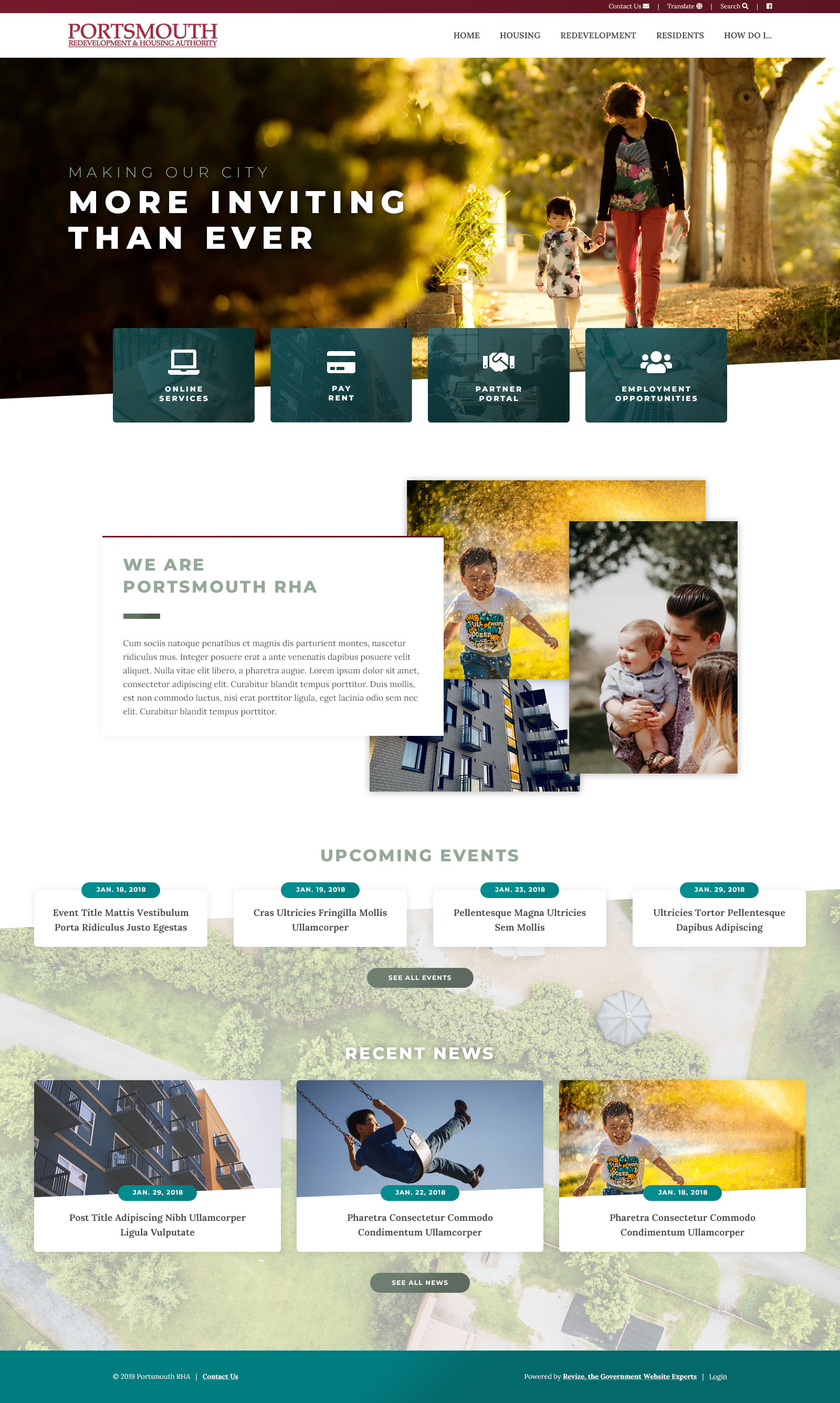
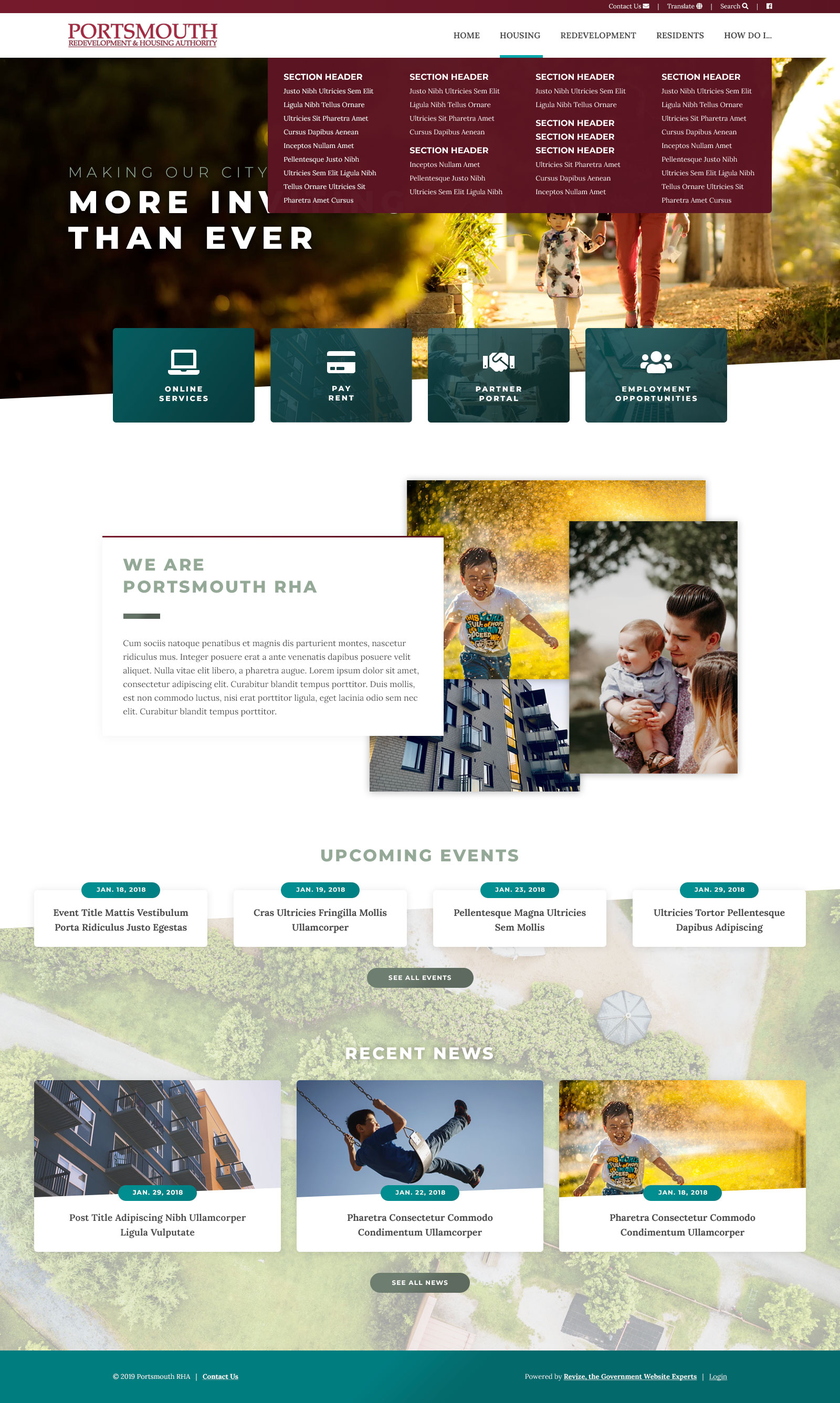
finished mega menu

Changed region(s): [[0.3125, 0.0311, 0.9375, 0.1553], [0.125, 0.2174, 0.2812, 0.3105], [0.7188, 0.9626, 0.75, 0.9936]]

diff --git a/_assets_/css/layout.css b/_assets_/css/layout.css
@@ -212,9 +212,9 @@ header .container {position: relative;}
 
 nav ul {margin: 0; padding: 0; font-size: 0;}
 #nav>li {display: inline-block;}
-#nav li {position: relative; margin: 0;}
+#nav li {margin: 0;}
 #nav li a {display: block; font-size: 16px; line-height: 24px; font-weight: 700; text-transform: uppercase; text-decoration: none; color: #4b4b4b; padding: 30px 0 31px;}
-#nav ul {display: none;}
+/* #nav ul {display: none;} */
 
 #search {display: none; position: absolute; top: calc(100% + 15px); right: 0; z-index: 51; width: 400px;}
 #search label {display: none;}
@@ -390,9 +390,18 @@ footer .container {width: 1200px;}
 	#flyout .focused .toggle,#nav .focused .toggle2{-webkit-transform:rotate(-90deg);transform:rotate(-90deg)}
 	#flyout,#nav{display:block!important}
 
+
 	/*--------------- #nav ---------------*/
 	header {text-align: right;}
 	#nav li a { margin-left: 38px;}
+	#nav li:hover ul {display: inline-block;}
+	#nav>li>a{position: relative;}
+	#nav>li:hover>a.mega:after{content:'';position:absolute;bottom:0px;left:0;background-color:#45a5aa;height:5px;width:100%}
+	#nav>li>ul {position: absolute; top: 100%; right: 15px; z-index: 51; display: none; column-count: 4; column-gap: 64px; background-color: #571d24; text-align: left; padding: 24px 30px 11px; border-radius: 0 0 6px 6px;}
+	#nav>li>ul>li {display: block;}
+	#nav>li>ul>li>a {font-family: 'Montserrat'; font-weight: 700; font-size: 16px; line-height: 26px; width: 100%; margin-bottom: 1px;}
+	#nav ul li a {color: #fff; padding: 0; margin: 0;}
+	#nav ul ul li a {font-size: 13px; line-height: 26px; font-weight: 300; text-transform: capitalize;}
 
 }
 
@@ -400,6 +409,7 @@ footer .container {width: 1200px;}
 
 	/*--------------- #we-are ---------------*/
 	#we-are .img-container div:nth-child(3) {width: 67.4%; padding-bottom: 47.4%; top: 190px; right: 240px;}
+
 
 	/*--------------- #news ---------------*/
 	.news-link h3 {padding: 0 25px;}
@@ -427,7 +437,7 @@ footer .container {width: 1200px;}
 	#nav-toggle{display:inline-block;cursor:pointer}
 	.down-arrow{display:none} /* if not hidden above */
 	#nav{display:none;width: 100%;;margin: 15px 0; background-color: #6a212c;}
-	#nav li{float:none;display:block;width: 100%;}
+	#nav li{float:none;display:block;width: 100%;position:relative;}
 	#nav li a,
 	#nav li span{padding:15px;line-height:1;border-bottom:1px solid rgba(0,0,0,.2);background:none;font-size:14px; color:#fff;}
 	#nav ul{position:static;top:0;padding:0;background:rgba(0,0,0,.2)}
@@ -463,6 +473,7 @@ footer .container {width: 1200px;}
 	#we-are .img-container div:nth-child(2) {width: 37.2%; padding-bottom: 55.2%; top: 50%; right: 50%; transform: translate(120%, -40%); z-index: 3}
 	#we-are .img-container div:nth-child(3) {width: 56.2%; padding-bottom: 35.2%; top: 50%; right: 50%; transform: translate(28%, 8%); z-index:1}
 
+
 	/*--------------- footer ---------------*/
 	footer {padding: 20px 0;}
 
@@ -478,23 +489,28 @@ footer .container {width: 1200px;}
 	.share-btns a{height:auto;padding:10px;width:100%;font-size:12px;white-space:nowrap;overflow:hidden}
 	.share-btns i{display:block;line-height:50px!important;font-size:20px}
 
+
 	/*--------------- #slider ---------------*/
 	#slider {height: 500px;}
 	#slider h1 {font-size: 40px; line-height: 48px;}
 	#slider h1 span {font-size: 22px; line-height: 22px;}
 
+
 	/*--------------- #we-are ---------------*/
 	#we-are .img-container {height: 450px;}
 	#we-are-info h2 {font-size: 28px; line-height: 36px;}
+
 
 	/*--------------- #events ---------------*/
 	#events h2 {font-size: 28px; line-height: 36px;}
 	#events a.btn {font-size: 11px; width: 180px; height: 34px; line-height: 34px;}
 
+
 	/*--------------- #news ---------------*/
 	#news {padding: 230px 0 50px;}
 	#news h2 {font-size: 28px; line-height: 36px;}
 	#news a.btn {font-size: 11px; width: 180px; height: 34px; line-height: 34px;}
+
 
 	/*--------------- footer ---------------*/
 	#contact-info,
@@ -513,6 +529,7 @@ footer .container {width: 1200px;}
 	#search-toggle-mobile,
 	#nav-toggle {margin-top: 7px;}
 
+
 	/*--------------- #slider ---------------*/
 	#slider h1 {font-size: 30px; line-height: 36px;}
 	#slider h1 span {font-size: 20px; line-height: 20px;}
@@ -520,6 +537,7 @@ footer .container {width: 1200px;}
 	/*--------------- #we-are ---------------*/
 	#we-are .img-container {height: 300px;}
 	#we-are-info h2 {font-size: 24px; line-height: 28px;}
+
 
 	/*--------------- #news ---------------*/
 	.news-link-img {height: 180px;}
@@ -531,14 +549,17 @@ footer .container {width: 1200px;}
 	.news-link span {font-size: 11px;}
 	.news-link h3 {font-size: 16px; line-height: 24px;}
 
+
 	/*--------------- #events ---------------*/
 	#events {padding: 40px 0 0}
 	#events h2 {font-size: 24px; line-height: 28px;}
 	#events a.btn {font-size: 11px; width: 180px; height: 34px; line-height: 34px;}
 
+
 	/*--------------- footer ---------------*/
 	#revize>a {display: block; margin: 0;}
 	#revize>a:after {display: none;}
+
 }
 
 @media print {

diff --git a/_assets_/js/scripts.js b/_assets_/js/scripts.js
@@ -93,6 +93,7 @@
 	// $("#nav > li:has(ul)").addClass('first-parent').children("a,span").append('<i class="fa fa-angle-down down-arrow">');
 
 	// Menu Toggles
+	$("#nav >li").has("ul").find('a').addClass('mega');
 	$("#nav >li>ul,#flyout >li>ul").addClass('first-level');
 	$("#nav  li ul ul").addClass('second-level');
 	$("#nav >li:has(ul)").find("a:first").append('<i class="fa fa-angle-down toggle" tabindex="0">');

diff --git a/index.php b/index.php
@@ -129,6 +129,7 @@
 								</ul>
 							</li>
 							<li><a href="./">section header</a></li>
+							<li><a href="./">section header</a></li>
 							<li>
 								<a href="./">section header</a>
 								<ul>
